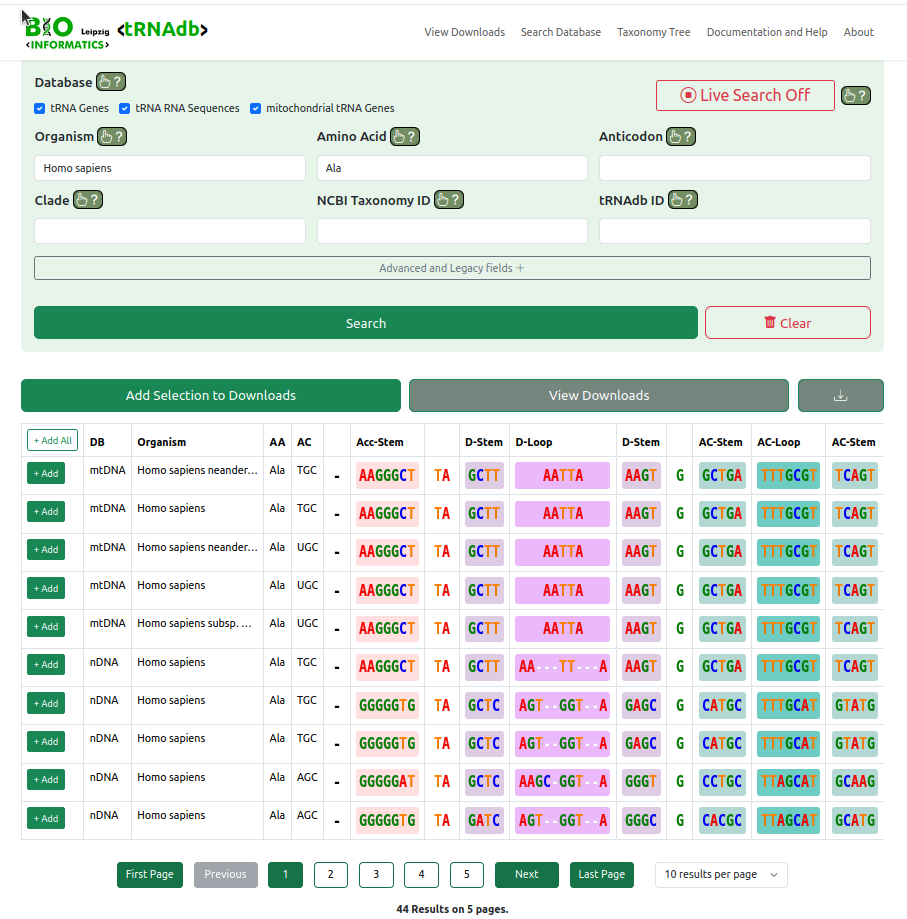
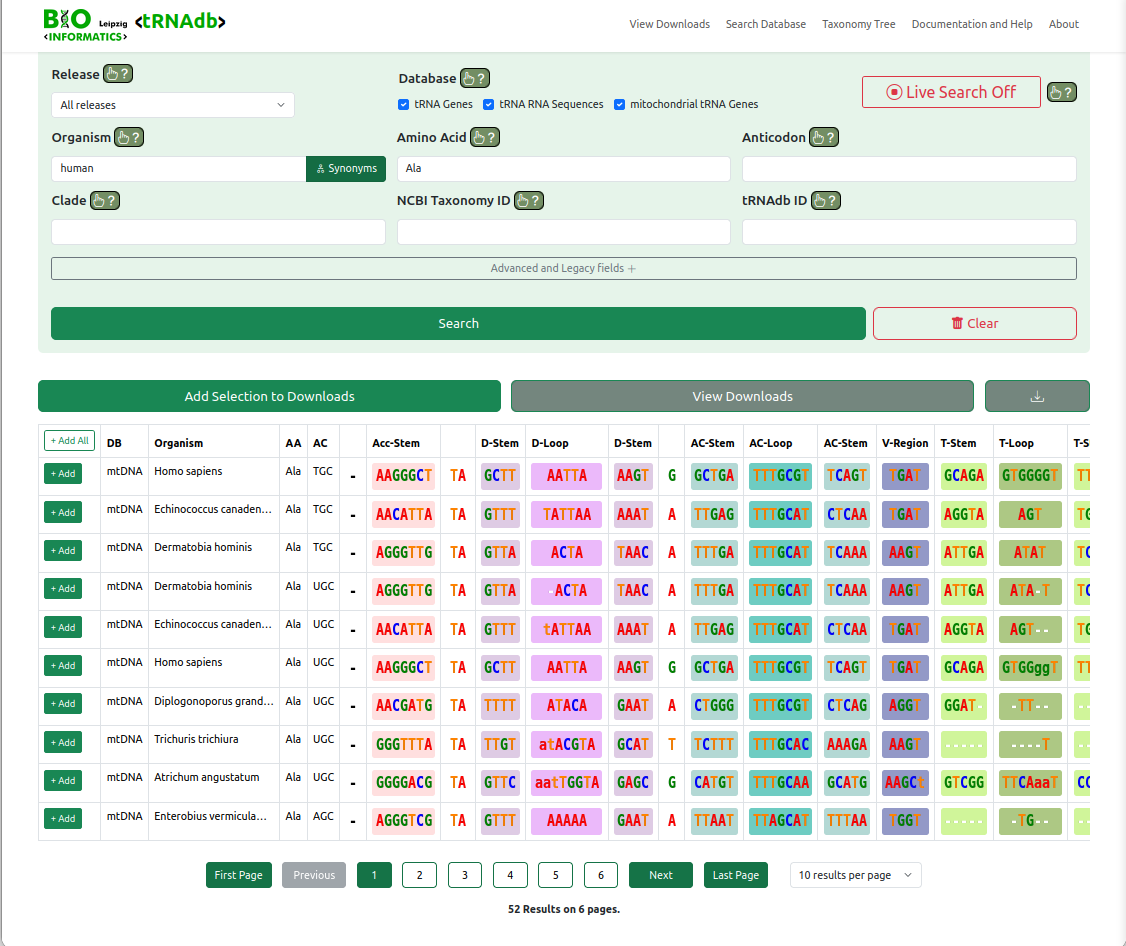
some cleaning, replaced web server figure with one without mouse pointer

diff --git a/trnaDB.tex b/trnaDB.tex
@@ -275,12 +275,6 @@ asynchronous data compilation and transfer via dedicated export threads as
 well as progress reporting of ongoing export jobs via polling.
 
 
-%\OLD{
-%tRNAdb 2.0 was completely reimplemented as a three tier application consisting of a relational database, an API backend, and a web based frontend. This separation enables independent updates, or replacement, of the three main functional components of tRNAdb and an implementation that remains scalable with increasing number of integrated data, or users.
-%
-%We use a MariaDB database \TODO{(Did DENBI help us finance servers?)} for storage of relevant information of tRNA sequences (nucleotide sequence, secondary structure, anticodon, amino acid, etc.) together with taxonomy information and metadata as well as cross linking information to external data sources. The API server is implemented in python using the \texttt{flask} framework. Representation of database entries for retrieval and manipulation is handled via object-relational mapping (ORM) using the \texttt{SQLAlchemy} framework. The web frontend is implemented in HTML, CSS and javascript and utilizes the popular javascript \texttt{Bootsstrap} library. Web documents are served by a python server using the \texttt{flask} framework. Notably, the web frontend uses our API endpoint exclusively for data retrieval highlighting the flexibility of our API endpoint.}
-
-%\subsection{Data Storage, Retrieval, and Updates}
 \subsection{Data model and provenance}
 
 For easy retrieval and global searches, sequences and their most relevant
@@ -288,7 +282,7 @@ data are stored within a single, fully indexed relation enabling efficient
 filtering across all sequence categories, attributes, and selected
 metadata. This includes nucleotide sequence, secondary structure,
 anticodon, amino acid and origin (i.e., genomic DNA, chemically modified RNA, and mitochondrial DNA). Every sequence has a taxonomic identifier and a separate table holds relevant taxonomic information obtained from the National Center for Biotechnology Information (NCBI) taxonomy database~\cite{ncbitaxonomy2020}. To facilitate legacy compatibility, the original tRNA dataset~\cite{juehling:2009} remains unaltered regarding sequence, structure, anticodon, amino acid, references, and tRNAdb identifier. We solely updated the taxonomic assignment, i.e., species names and NCBI taxonomy identifiers, to be consistent with the current NCBI taxonomy database. We used the NCBI taxonomy data dump 2026-06-01, accessed 10 June 2026, to create an updated local taxonomic table and reconciled legacy taxonomic assignments using \texttt{Bio.entrez}~\cite{biopython2009} to resolve their current taxonomic information.
-%together with the \texttt{biopython} \texttt{entrez} package to query NCBI taxonomy API for updated taxonomic information for tRNAdb legacy sequences.
+
 
 The updated relational schema supports a release versioning system which
 separates the legacy dataset and data contained in tRNAdb\,2026
@@ -298,8 +292,8 @@ documented. Additionally, every tRNAdb release is described with a public
 version string that is displayed on the ``Details'' page of individual
 entries, and is also available as an export field. The public version
 string contains a short description how the sequences published in this
-particular release were obtained. \TODO{A more detailed description, e.g.,
-software and data sources, is available on the ``Documentation and Help''
+particular release were obtained. \TODO{A detailed description, including 
+software applied and data sources, is available on the ``Documentation and Help''
 page.}  Sequences in tRNAdb can be filtered by their corresponding release version, allowing users to browse exclusively legacy data, or current releases.
 
 Subsequent releases of the tRNAdb dataset will be published with a corresponding release identifier together with the prior described release metadata. To enable a sustainable update procedure, we implemented a graphical user interface supported pipeline for import, normalization, and duplicate detection for subsequent tRNAdb versions.
@@ -315,8 +309,8 @@ Subsequent releases of the tRNAdb dataset will be published with a corresponding
 \subsection{API and programmatic access}
 
 With this update we provide a new public HTTP interface, accessible by POST
-JSON requests at \url{https://tdb.bioinf.uni-leipzig.de/api}. The API implements \TODO{OpenAPI} specifications and a thorough documentation for users is available on the ``Documentation'' page of the tRNAdb website. Fundamentally, our API supports nearly identical search parameters as the tRNAdb website and allows filtering by any combination of origin, species, clade, NCBI taxonomy ID, amino acid, anticodon, sequence and structural motifs, reference (genome accession, external source, publication), and release version.
-\TS{TS: nearly? Is there any difference worth mentioning?}
+JSON requests at \url{https://tdb.bioinf.uni-leipzig.de/api}. The API implements \TODO{OpenAPI} specifications and a thorough documentation for users is available on the ``Documentation'' page of the tRNAdb website. Fundamentally, our API supports identical search parameters as the tRNAdb website and allows filtering by any combination of origin, species, clade, NCBI taxonomy ID, amino acid, anticodon, sequence and structural motifs, reference (genome accession, external source, publication), and release version.
+
 For many fields, multiple values can be supplied and entries matching at least one are returned. Individual records can be precisely retrieved by using the stable identifier \texttt{trnadb\_id} which also remained unaltered for the 2009 legacy dataset.
 
 %Internally, POST requests send to the API are parsed, an appropriate SQL statement is executed, and matching entries are returned as JSON.
@@ -337,7 +331,7 @@ The tRNAdb web interface (see Figure~\ref{Fig:Website}) can be found at \url{htt
 \begin{figure}
   \includegraphics[width=0.45\textwidth]{Webserver_homo_ala.png}
   \caption{Example of the tRNAdb website, showing the first page of the
-    results for a search for \emph{Homo sapiens} Alanine
+    results for a search for \emph{human} Alanine
     tRNAs\label{Fig:Website}}
 \end{figure}
 The main functionality of the website is the ``Search'' page which allows
@@ -445,7 +439,7 @@ archaeal coverage relative to the legacy dataset.
 Genome sequences of all viruses annotated with the host term ``Bacteria'' were obtained from NCBI Virus~\cite{ncbivirus}, accessed 17 August 2026. Putative tRNA genes
 were identified using tRNAscan-SE v2.0.12 \cite{tRNAscan} in bacterial mode.
 Predicted tRNAs were retained only if they were 70–90nt in length, had an
-overall tRNAscan-SE \TODO{***inf***} score $>$60, and had both HMM and
+overall tRNAscan-SE Bit Score $>$60, and had both HMM and
 secondary-structure scores $>$10. Predictions with undefined isotypes or
 classified as pseudogenes were excluded. After filtering (see ``Alignment and
 quality control section'' below), $7\,099$ viral tRNA genes from $1\,558$ unique genomes were added to tRNAdb.
@@ -502,7 +496,7 @@ smaller extent Ser1 (12\,979 and 9\,457, resp.), which code for the two amino
 acids that have two tRNAs in many mitochondria. Mitochondrial tRNA-Lys is the
 only tRNA utilizing a notable amount of a secondary anticodon (Fig.~\ref{Aminoacidamounts}a).
 
-In contrast, genomic tRNAs show a much wider variety in their abundance. Leu, being the most abundant, has $23\,995$ entries and $10\,233$ unique sequences. Besides the non-standard Suppressor and SeC tRNAs, His has the fewest entries with $5\,290$ ($2\,305$ unique sequences), while Phe and Trp have the fewest unique sequences with $2\,093$ (in $5\,855$ and $5\,579$ entries, respectively). Notably, many genomic tRNAs (Asn, Asp, Cys, His, Phe, Trp, Tyr) show a clear preference for one codon (see Fig.~\ref{Aminoacidamounts}b). Not surprisingly, the number of entries as well as the number of unique sequences per amino acid strongly correlates with the number of frequent (n$> 100$) anticodons an amino acids uses ($\rho > 0.93, p< 10^{-8}$ for both).
+In contrast, genomic tRNAs show a much wider variety in their abundance. Leu, being the most abundant, has $23\,995$ entries and $10\,233$ unique sequences. Besides the non-standard Suppressor and SeC tRNAs, His has the fewest entries with $5\,290$ ($2\,305$ unique sequences), while Phe and Trp have the fewest unique sequences with $2\,093$ (in $5\,855$ and $5\,579$ entries, respectively). Notably, many genomic tRNAs (Asn, Asp, Cys, His, Phe, Trp, Tyr) show a clear preference for one codon (see Fig.~\ref{Aminoacidamounts}b). Not surprisingly, the number of entries as well as the number of unique sequences per amino acid strongly correlates with the number of frequent (n$> 100$) anticodons in use for an amino acids ($\rho > 0.93, p< 10^{-8}$ for both).
 
 
 \begin{figure}
@@ -542,8 +536,7 @@ Alongside a redesigned web interface, we provide a public API and a considerable
 
 However, because most entries in the tRNAdb stem from semi-automatic annotation \TODO{together with manual curation}, fringe cases that deviate from established tRNA properties are likely
 to be rejected, even though these are often of high biological interest. We therefore rely on the community to report such sequences, so they can be incorporated into future releases. This feedback may in turn motivate updated search algorithms capable of capturing a broader range of non-standard tRNAs.
-
-\TODO{To be able to address this, we will povide a form where experts can send us entries of non-standard tRNAs that we can curate and include into the database. Additional statistical analysis can be incorporated into subsequent updates of the database.}%maybe we should think about providing a web interface for people to
+\TODO{To be able to address this, we will povide a web interface where experts can send us entries of non-standard tRNAs that we can curate and include into the database. Additional statistical analysis can be incorporated into subsequent updates of the database.}%maybe we should think about providing a web interface for people to
 %  look at wierd fringe cases? I think we could also mention additional statistical capabilities that can be incorporated with subsequent frontend/API updates - tRNA motifs for searches; species/clade specific anticodon utilization or translation tables derived from the mttrnas, average tRNA counts of tRNA per amino acid per clade, BLAST queries, ...}
 
 
